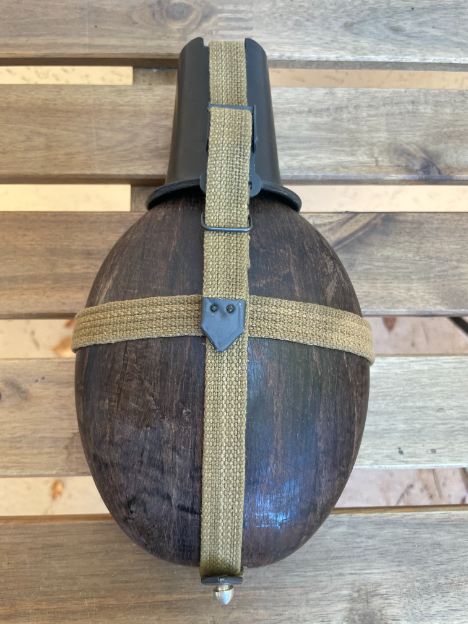
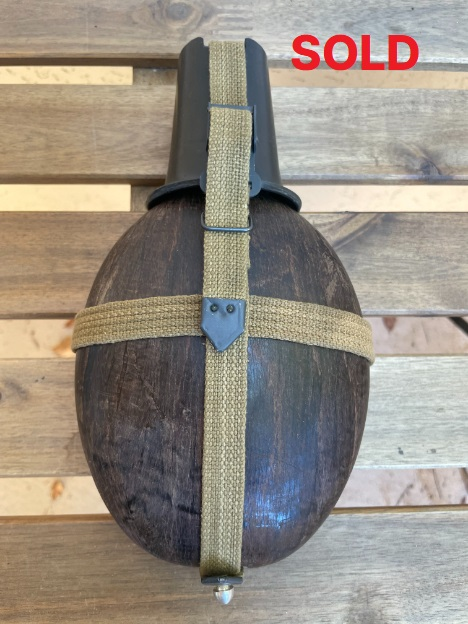
Добавил новые изменения

Changed region(s): [[0.6282, 0.0304, 0.8974, 0.1218]]

diff --git a/CoconutCanteensStraps.html b/CoconutCanteensStraps.html
@@ -200,15 +200,6 @@
 	<div class="main d-flex flex-wrap justify-content-center gap-4 p-3">
     
 		<div class="section-link">
-			<a href="HRE43_O1.html">
-				<img src="img/BillyAlProduction/CCStraps/HRE43_O1/1.jpg" alt="CC Hre43">
-				<h2>Complete HRE43</h2>
-				<h2>Canteen with Straps</h2>
-				<h2>Made with original webbing</h2>
-			</a>
-		</div>
-		
-		<div class="section-link">
 			<a href="CC_Ritter.html">
 				<img src="img/BillyAlProduction/CCStraps/CC_Ritter/1.jpg" alt="CC Ritter">
 				<h2>Complete Ritter</h2>
@@ -268,6 +259,15 @@
 				<h2>Straps</h2>
 				<h2>For Coconut Canteen</h2>
 				<h2>#5</h2>
+			</a>
+		</div>
+		
+		<div class="section-link">
+			<a href="HRE43_O1.html">
+				<img src="img/BillyAlProduction/CCStraps/HRE43_O1/1.jpg" alt="CC Hre43">
+				<h2>Complete HRE43</h2>
+				<h2>Canteen with Straps</h2>
+				<h2>Made with original webbing</h2>
 			</a>
 		</div>
 

diff --git a/HRE43_O1.html b/HRE43_O1.html
@@ -328,7 +328,7 @@
       <!-- Правая колонка -->
       <div class="product-info">
         <h1 class="product-title">Complete HRE43 canteen - straps made with original webbing</h1>
-        <p class="product-price">120 USD</p>
+        <p class="product-price">SOLD for 120 USD</p>
         <div class="short-description">
           <p>It is a rare opportunity to find the correct wartime or early postwar German-issued 16mm wide webbing. This type of material is hard to source and already quite expensive, especially once you factor in the original cost, taxes, and overseas shipping. For this reason, the assembled canteen is priced higher. However, the final decision to purchase is, of course, entirely yours.</p>
           <p>The canteens ithelf is original</p>
